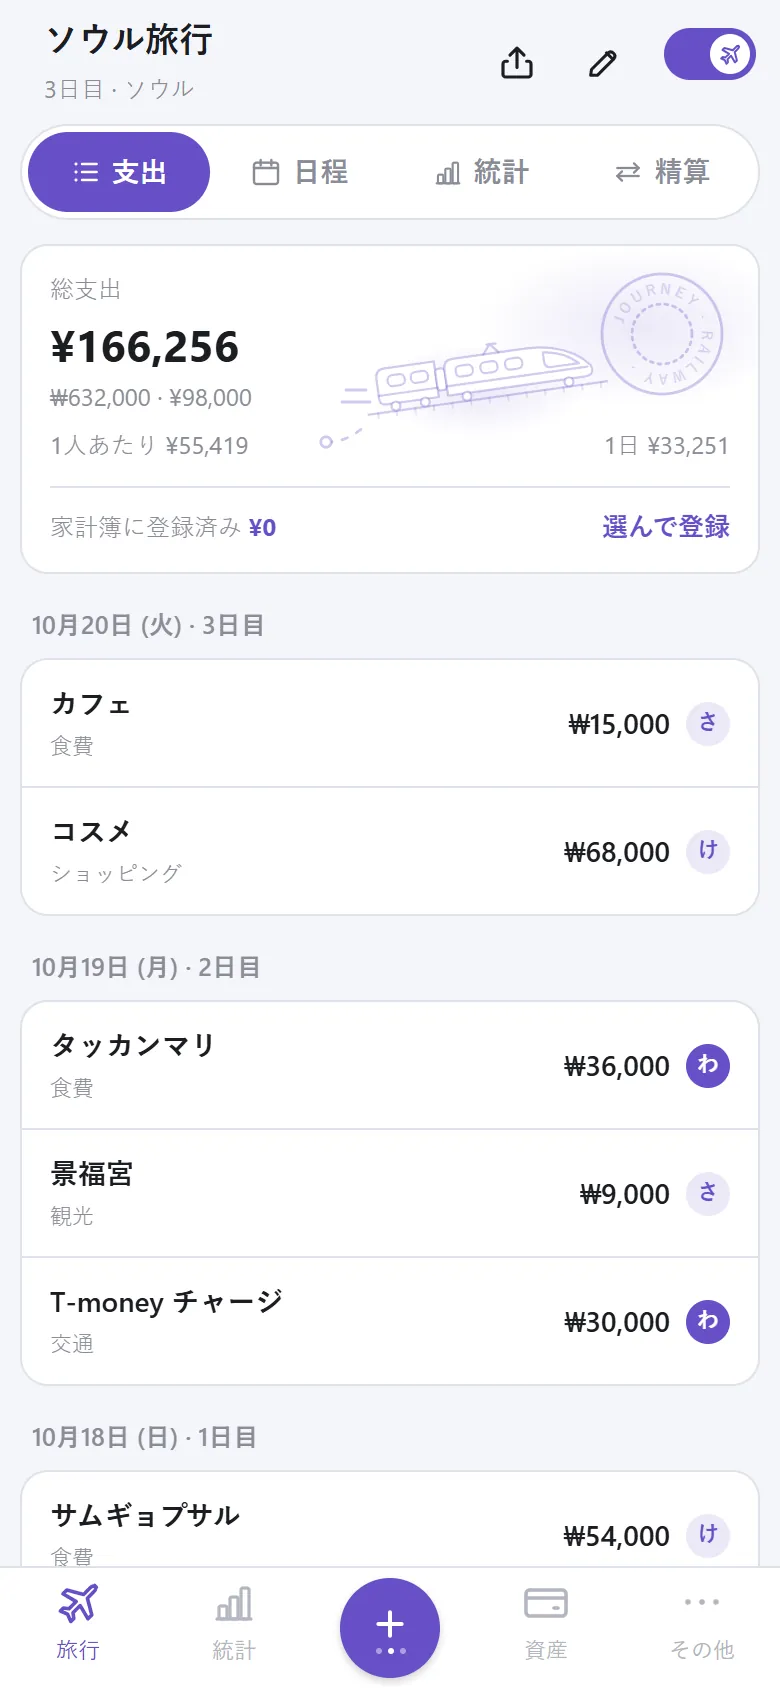
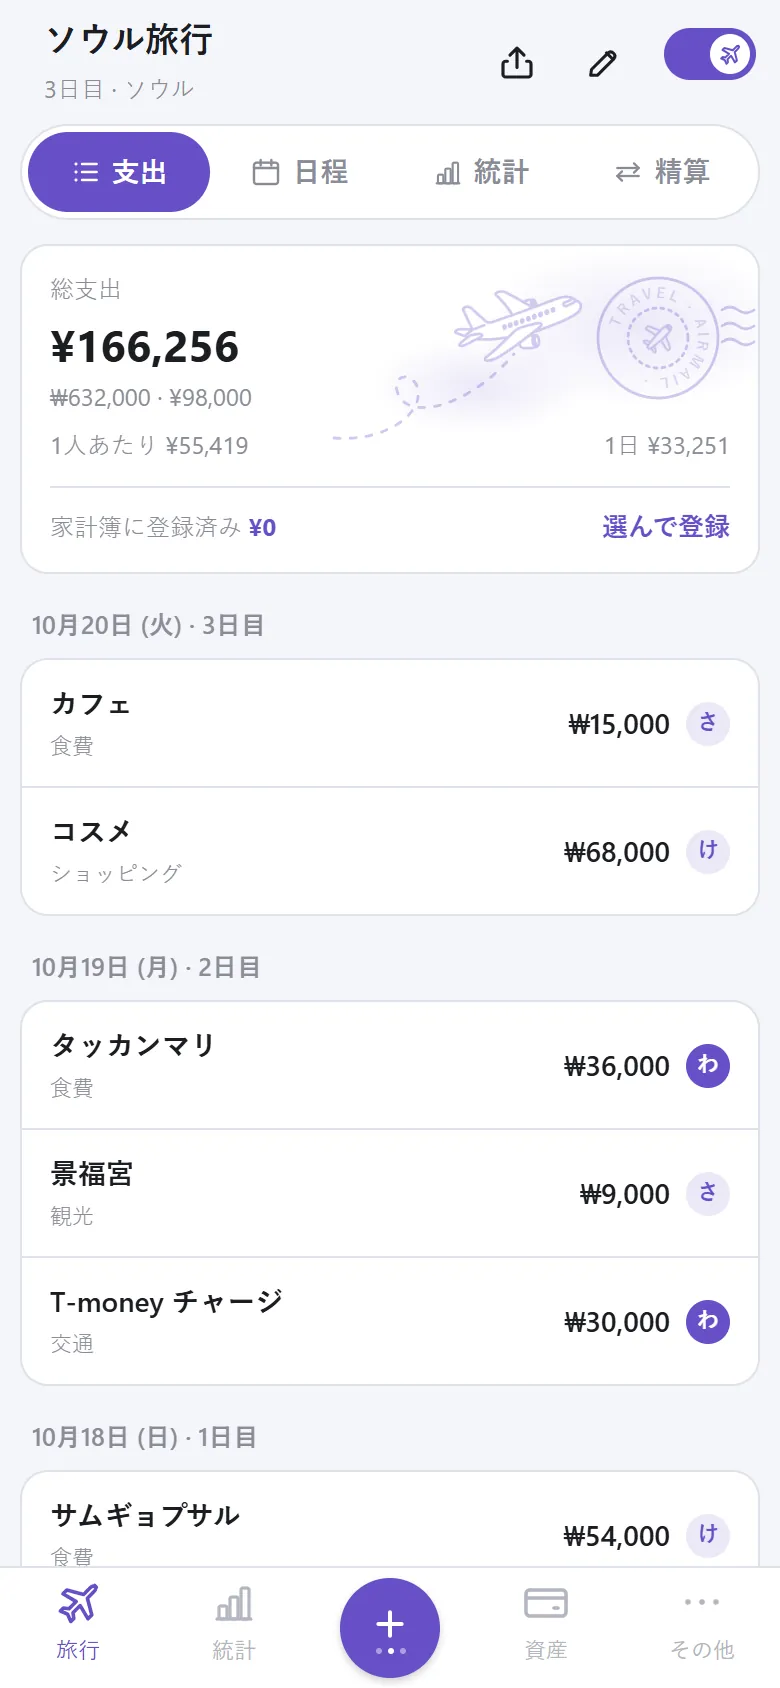
Show four trip screens and fix the demo's trip card art
- Trip section on the CashTory pages (KO/JA/EN) now shows four app
  screens with captions: expenses, schedule, stats and settle up
  (2x2 on phones, one row on wide screens)
- Re-captured trip screens: the top card now shows the plane art, the
  Japanese sample is an overseas trip, and the schedule shows upcoming
  plans from the top
- Web demo: add plain-named copies of the @3x trip-art images, which the
  page requests without the scale suffix (they were 404, so the plane
  and stamp art was missing)

Changed region(s): [[0.4308, 0.154, 0.9538, 0.2464]]

diff --git a/cashtory/ja/index.html b/cashtory/ja/index.html
@@ -85,6 +85,9 @@ section.block{padding:96px 0}
 .feature h3{margin:18px 0 6px;font-size:19px;letter-spacing:-.03em}.feature p{margin:0;color:var(--sub);font-size:14px}
 .inputMedia{display:flex;justify-content:center;gap:24px;margin-top:48px}
 .inputMedia .phone{width:min(280px,44vw)}
+.inputMedia.four{display:grid;grid-template-columns:repeat(4,minmax(0,250px));justify-content:center;gap:22px}
+.inputMedia.four .phone{width:auto;border-radius:38px;padding:8px}.inputMedia.four .phone img{border-radius:31px}
+.inputMedia.four figure{margin:0}.inputMedia.four figcaption{margin-top:14px;text-align:center;font-size:14px;font-weight:800;color:var(--sub)}
 .receipt{margin-top:56px;display:grid;grid-template-columns:.8fr 1.2fr;gap:32px;align-items:center;background:#fff;border:1px solid var(--line);border-radius:28px;padding:24px;box-shadow:var(--shadow)}
 .scrollShot{background:#15151a;border-radius:30px;padding:8px;width:min(320px,100%);height:560px;margin:0 auto;overflow:hidden}
 .scrollShot img{width:100%;border-radius:23px;animation:shotScroll 12s cubic-bezier(.65,0,.35,1) infinite alternate}
@@ -127,6 +130,7 @@ footer{padding:32px 0 42px;border-top:1px solid var(--line);color:#777A85;font-s
   .split.rev>.media{order:0}
   .features{grid-template-columns:1fr 1fr}
   .grid4{grid-template-columns:1fr 1fr}
+  .inputMedia.four{grid-template-columns:repeat(2,minmax(0,280px))}
   .stage{min-height:0;padding:12px 0}
 }
 @media(max-width:600px){
@@ -141,6 +145,9 @@ footer{padding:32px 0 42px;border-top:1px solid var(--line);color:#777A85;font-s
   .inputMedia{gap:12px}
   .inputMedia .phone{width:46vw;border-radius:28px;padding:6px}
   .inputMedia .phone img{border-radius:23px}
+  .inputMedia.four{gap:16px 12px}
+  .inputMedia.four .phone{width:auto}
+  .inputMedia.four figcaption{margin-top:10px;font-size:13px}
   section.block,.reviewSec{padding:72px 0}
   .tryBand{padding:30px 24px}
 }
@@ -250,10 +257,7 @@ footer{padding:32px 0 42px;border-top:1px solid var(--line);color:#777A85;font-s
           <h2>旅行のお金は、<br>旅行ノートに<wbr>別々に。</h2>
           <p class="sectionLead">旅行ごとに別々に記録し、必要な支出だけを選んで家計簿に移せます。現地のお金のまま入力すれば為替レートで換算して合計を表示し、同行者と使ったお金は誰が誰にいくら送ればよいかまで教えてくれます。</p>
         </div>
-        <div class="inputMedia">
-          <div class="phone"><img src="/cashtory/assets/screens/ja/trip.webp" alt="旅行の明細画面" width="780" height="1688" loading="lazy" decoding="async"></div>
-          <div class="phone"><img src="/cashtory/assets/screens/ja/trip2.webp" alt="旅行の精算画面" width="780" height="1688" loading="lazy" decoding="async"></div>
-        </div>
+        <div class="inputMedia four"><figure><div class="phone"><img src="/cashtory/assets/screens/ja/trip.webp" alt="旅行の支出画面" width="780" height="1688" loading="lazy" decoding="async"></div><figcaption>支出</figcaption></figure><figure><div class="phone"><img src="/cashtory/assets/screens/ja/trip-plans.webp" alt="旅行の日程画面" width="780" height="1688" loading="lazy" decoding="async"></div><figcaption>日程</figcaption></figure><figure><div class="phone"><img src="/cashtory/assets/screens/ja/trip-stats.webp" alt="旅行の統計画面" width="780" height="1688" loading="lazy" decoding="async"></div><figcaption>統計</figcaption></figure><figure><div class="phone"><img src="/cashtory/assets/screens/ja/trip2.webp" alt="旅行の精算画面" width="780" height="1688" loading="lazy" decoding="async"></div><figcaption>精算</figcaption></figure></div>
         <div class="features"><article class="feature"><div class="featureIcon" aria-hidden="true">$</div><h3>現地のお金のまま</h3><p>ドル・ウォンのまま入力すると、決めたレートで換算して合計・1人あたり・1日平均を表示します。</p></article><article class="feature"><div class="featureIcon" aria-hidden="true">⇄</div><h3>自動で精算</h3><p>払った人と割る人を選ぶだけ。精算表は画像で共有でき、旅行ファイルをやり取りして同行者と合算できます。</p></article><article class="feature"><div class="featureIcon" aria-hidden="true">☑</div><h3>日程 · 持ち物</h3><p>日ごとの予定と地図リンクを記録し、海外・国内の基本リストで持ち物をチェック。</p></article><article class="feature"><div class="featureIcon" aria-hidden="true">✈</div><h3>旅行モード</h3><p>出発前日から家計簿上のスイッチひとつで旅行画面が先に。行った国は世界地図に塗られます。</p></article></div>
       </div>
     </section>

diff --git a/cashtory/index.html b/cashtory/index.html
@@ -85,6 +85,9 @@ section.block{padding:96px 0}
 .feature h3{margin:18px 0 6px;font-size:19px;letter-spacing:-.03em}.feature p{margin:0;color:var(--sub);font-size:14px}
 .inputMedia{display:flex;justify-content:center;gap:24px;margin-top:48px}
 .inputMedia .phone{width:min(280px,44vw)}
+.inputMedia.four{display:grid;grid-template-columns:repeat(4,minmax(0,250px));justify-content:center;gap:22px}
+.inputMedia.four .phone{width:auto;border-radius:38px;padding:8px}.inputMedia.four .phone img{border-radius:31px}
+.inputMedia.four figure{margin:0}.inputMedia.four figcaption{margin-top:14px;text-align:center;font-size:14px;font-weight:800;color:var(--sub)}
 .receipt{margin-top:56px;display:grid;grid-template-columns:.8fr 1.2fr;gap:32px;align-items:center;background:#fff;border:1px solid var(--line);border-radius:28px;padding:24px;box-shadow:var(--shadow)}
 .scrollShot{background:#15151a;border-radius:30px;padding:8px;width:min(320px,100%);height:560px;margin:0 auto;overflow:hidden}
 .scrollShot img{width:100%;border-radius:23px;animation:shotScroll 12s cubic-bezier(.65,0,.35,1) infinite alternate}
@@ -127,6 +130,7 @@ footer{padding:32px 0 42px;border-top:1px solid var(--line);color:#777A85;font-s
   .split.rev>.media{order:0}
   .features{grid-template-columns:1fr 1fr}
   .grid4{grid-template-columns:1fr 1fr}
+  .inputMedia.four{grid-template-columns:repeat(2,minmax(0,280px))}
   .stage{min-height:0;padding:12px 0}
 }
 @media(max-width:600px){
@@ -141,6 +145,9 @@ footer{padding:32px 0 42px;border-top:1px solid var(--line);color:#777A85;font-s
   .inputMedia{gap:12px}
   .inputMedia .phone{width:46vw;border-radius:28px;padding:6px}
   .inputMedia .phone img{border-radius:23px}
+  .inputMedia.four{gap:16px 12px}
+  .inputMedia.four .phone{width:auto}
+  .inputMedia.four figcaption{margin-top:10px;font-size:13px}
   section.block,.reviewSec{padding:72px 0}
   .tryBand{padding:30px 24px}
 }
@@ -259,10 +266,7 @@ footer{padding:32px 0 42px;border-top:1px solid var(--line);color:#777A85;font-s
           <h2>여행 경비는<br>여행 공책에 따로.</h2>
           <p class="sectionLead">여행마다 따로 적고, 필요한 지출만 골라 내 가계부로 옮기세요. 현지 돈 그대로 적으면 환율로 바꿔 합계를 보여 주고, 일행과 쓴 돈은 누가 누구에게 얼마 보내면 되는지까지 알려줘요.</p>
         </div>
-        <div class="inputMedia">
-          <div class="phone"><img src="/cashtory/assets/screens/ko/trip.webp" alt="여행 내역 화면" width="780" height="1688" loading="lazy" decoding="async"></div>
-          <div class="phone"><img src="/cashtory/assets/screens/ko/trip2.webp" alt="여행 정산 화면" width="780" height="1688" loading="lazy" decoding="async"></div>
-        </div>
+        <div class="inputMedia four"><figure><div class="phone"><img src="/cashtory/assets/screens/ko/trip.webp" alt="여행 지출 내역 화면" width="780" height="1688" loading="lazy" decoding="async"></div><figcaption>내역</figcaption></figure><figure><div class="phone"><img src="/cashtory/assets/screens/ko/trip-plans.webp" alt="여행 일정 화면" width="780" height="1688" loading="lazy" decoding="async"></div><figcaption>일정</figcaption></figure><figure><div class="phone"><img src="/cashtory/assets/screens/ko/trip-stats.webp" alt="여행 통계 화면" width="780" height="1688" loading="lazy" decoding="async"></div><figcaption>통계</figcaption></figure><figure><div class="phone"><img src="/cashtory/assets/screens/ko/trip2.webp" alt="여행 정산 화면" width="780" height="1688" loading="lazy" decoding="async"></div><figcaption>정산</figcaption></figure></div>
         <div class="features"><article class="feature"><div class="featureIcon" aria-hidden="true">¥</div><h3>현지 돈 그대로</h3><p>엔·달러 그대로 적으면 정한 환율로 바꿔 총 지출·1인당·하루 평균을 보여줘요.</p></article><article class="feature"><div class="featureIcon" aria-hidden="true">⇄</div><h3>자동 정산</h3><p>낸 사람과 나눌 사람만 고르면 끝. 정산표는 이미지로 공유하고, 여행 파일을 주고받아 일행과 합칠 수 있어요.</p></article><article class="feature"><div class="featureIcon" aria-hidden="true">☑</div><h3>일정 · 준비물</h3><p>날마다 일정과 지도 링크를 적고, 해외·국내 기본 목록으로 준비물을 챙겨요.</p></article><article class="feature"><div class="featureIcon" aria-hidden="true">✈</div><h3>여행 모드</h3><p>출발 전날부터 가계부 위 스위치 하나로 여행 화면이 먼저. 다녀온 나라는 세계지도에 칠해져요.</p></article></div>
       </div>
     </section>

diff --git a/cashtory/en/index.html b/cashtory/en/index.html
@@ -85,6 +85,9 @@ section.block{padding:96px 0}
 .feature h3{margin:18px 0 6px;font-size:19px;letter-spacing:-.03em}.feature p{margin:0;color:var(--sub);font-size:14px}
 .inputMedia{display:flex;justify-content:center;gap:24px;margin-top:48px}
 .inputMedia .phone{width:min(280px,44vw)}
+.inputMedia.four{display:grid;grid-template-columns:repeat(4,minmax(0,250px));justify-content:center;gap:22px}
+.inputMedia.four .phone{width:auto;border-radius:38px;padding:8px}.inputMedia.four .phone img{border-radius:31px}
+.inputMedia.four figure{margin:0}.inputMedia.four figcaption{margin-top:14px;text-align:center;font-size:14px;font-weight:800;color:var(--sub)}
 .receipt{margin-top:56px;display:grid;grid-template-columns:.8fr 1.2fr;gap:32px;align-items:center;background:#fff;border:1px solid var(--line);border-radius:28px;padding:24px;box-shadow:var(--shadow)}
 .scrollShot{background:#15151a;border-radius:30px;padding:8px;width:min(320px,100%);height:560px;margin:0 auto;overflow:hidden}
 .scrollShot img{width:100%;border-radius:23px;animation:shotScroll 12s cubic-bezier(.65,0,.35,1) infinite alternate}
@@ -127,6 +130,7 @@ footer{padding:32px 0 42px;border-top:1px solid var(--line);color:#777A85;font-s
   .split.rev>.media{order:0}
   .features{grid-template-columns:1fr 1fr}
   .grid4{grid-template-columns:1fr 1fr}
+  .inputMedia.four{grid-template-columns:repeat(2,minmax(0,280px))}
   .stage{min-height:0;padding:12px 0}
 }
 @media(max-width:600px){
@@ -141,6 +145,9 @@ footer{padding:32px 0 42px;border-top:1px solid var(--line);color:#777A85;font-s
   .inputMedia{gap:12px}
   .inputMedia .phone{width:46vw;border-radius:28px;padding:6px}
   .inputMedia .phone img{border-radius:23px}
+  .inputMedia.four{gap:16px 12px}
+  .inputMedia.four .phone{width:auto}
+  .inputMedia.four figcaption{margin-top:10px;font-size:13px}
   section.block,.reviewSec{padding:72px 0}
   .tryBand{padding:30px 24px}
 }
@@ -250,10 +257,7 @@ footer{padding:32px 0 42px;border-top:1px solid var(--line);color:#777A85;font-s
           <h2>Trip spending<br>in its own notebook.</h2>
           <p class="sectionLead">Keep each trip separate and move only the expenses you choose into your ledger. Enter amounts in the local currency and see totals at your exchange rate; for group trips, it tells you who should pay whom, and how much.</p>
         </div>
-        <div class="inputMedia">
-          <div class="phone"><img src="/cashtory/assets/screens/en/trip.webp" alt="Trip expenses screen" width="780" height="1688" loading="lazy" decoding="async"></div>
-          <div class="phone"><img src="/cashtory/assets/screens/en/trip2.webp" alt="Trip settlement screen" width="780" height="1688" loading="lazy" decoding="async"></div>
-        </div>
+        <div class="inputMedia four"><figure><div class="phone"><img src="/cashtory/assets/screens/en/trip.webp" alt="Trip expenses screen" width="780" height="1688" loading="lazy" decoding="async"></div><figcaption>Expenses</figcaption></figure><figure><div class="phone"><img src="/cashtory/assets/screens/en/trip-plans.webp" alt="Trip schedule screen" width="780" height="1688" loading="lazy" decoding="async"></div><figcaption>Schedule</figcaption></figure><figure><div class="phone"><img src="/cashtory/assets/screens/en/trip-stats.webp" alt="Trip stats screen" width="780" height="1688" loading="lazy" decoding="async"></div><figcaption>Stats</figcaption></figure><figure><div class="phone"><img src="/cashtory/assets/screens/en/trip2.webp" alt="Trip settle-up screen" width="780" height="1688" loading="lazy" decoding="async"></div><figcaption>Settle up</figcaption></figure></div>
         <div class="features"><article class="feature"><div class="featureIcon" aria-hidden="true">€</div><h3>Local currency as is</h3><p>Enter euros or yen as they are; totals, per person and per day are converted at your rate.</p></article><article class="feature"><div class="featureIcon" aria-hidden="true">⇄</div><h3>Settle up automatically</h3><p>Pick who paid and who&#x27;s splitting. Share the settlement as an image, and swap trip files to combine everyone&#x27;s entries.</p></article><article class="feature"><div class="featureIcon" aria-hidden="true">☑</div><h3>Plans &amp; packing list</h3><p>Add each day&#x27;s plans with map links, and pack with the built-in abroad or domestic lists.</p></article><article class="feature"><div class="featureIcon" aria-hidden="true">✈</div><h3>Trip mode</h3><p>From the day before you leave, one switch above your ledger opens the trip first. Countries you&#x27;ve visited fill in on a world map.</p></article></div>
       </div>
     </section>

diff --git a/tools/build_cashtory_pages.py b/tools/build_cashtory_pages.py
@@ -83,7 +83,8 @@ COPY = {
                  ("⇄", "자동 정산", "낸 사람과 나눌 사람만 고르면 끝. 정산표는 이미지로 공유하고, 여행 파일을 주고받아 일행과 합칠 수 있어요."),
                  ("☑", "일정 · 준비물", "날마다 일정과 지도 링크를 적고, 해외·국내 기본 목록으로 준비물을 챙겨요."),
                  ("✈", "여행 모드", "출발 전날부터 가계부 위 스위치 하나로 여행 화면이 먼저. 다녀온 나라는 세계지도에 칠해져요.")],
-        "alt_trip": "여행 내역 화면", "alt_trip2": "여행 정산 화면",
+        "trip_shots": [("trip", "내역", "여행 지출 내역 화면"), ("trip-plans", "일정", "여행 일정 화면"),
+                       ("trip-stats", "통계", "여행 통계 화면"), ("trip2", "정산", "여행 정산 화면")],
         "notify_k": "NOTIFICATIONS",
         "notify_h": "챙길 날은<br>알림이 먼저 알려줘요.",
         "notify_lead": "디데이·곧 나갈 돈·잔액 부족 예상·할부 마지막 회차·월말 리뷰·차량 정비. 필요한 알림만 골라, 원하는 시간에 받으세요. 알림은 휴대폰 안에서만 만들어져요.",
@@ -187,7 +188,8 @@ COPY = {
                  ("⇄", "自動で精算", "払った人と割る人を選ぶだけ。精算表は画像で共有でき、旅行ファイルをやり取りして同行者と合算できます。"),
                  ("☑", "日程 · 持ち物", "日ごとの予定と地図リンクを記録し、海外・国内の基本リストで持ち物をチェック。"),
                  ("✈", "旅行モード", "出発前日から家計簿上のスイッチひとつで旅行画面が先に。行った国は世界地図に塗られます。")],
-        "alt_trip": "旅行の明細画面", "alt_trip2": "旅行の精算画面",
+        "trip_shots": [("trip", "支出", "旅行の支出画面"), ("trip-plans", "日程", "旅行の日程画面"),
+                       ("trip-stats", "統計", "旅行の統計画面"), ("trip2", "精算", "旅行の精算画面")],
         "notify_k": "NOTIFICATIONS",
         "notify_h": "大事な日は、<br>通知が先に<wbr>お知らせ。",
         "notify_lead": "Dデー・今後の支払い・残高不足の予測・分割払いの最終回・月末レビュー・車の整備。必要な通知だけを選び、好きな時間に受け取れます。通知はスマホの中だけで作られます。",
@@ -292,7 +294,8 @@ COPY = {
                  ("⇄", "Settle up automatically", "Pick who paid and who's splitting. Share the settlement as an image, and swap trip files to combine everyone's entries."),
                  ("☑", "Plans & packing list", "Add each day's plans with map links, and pack with the built-in abroad or domestic lists."),
                  ("✈", "Trip mode", "From the day before you leave, one switch above your ledger opens the trip first. Countries you've visited fill in on a world map.")],
-        "alt_trip": "Trip expenses screen", "alt_trip2": "Trip settlement screen",
+        "trip_shots": [("trip", "Expenses", "Trip expenses screen"), ("trip-plans", "Schedule", "Trip schedule screen"),
+                       ("trip-stats", "Stats", "Trip stats screen"), ("trip2", "Settle up", "Trip settle-up screen")],
         "notify_k": "NOTIFICATIONS",
         "notify_h": "Reminders for<br>the days that matter.",
         "notify_lead": "D-days, money coming up, low balance warnings, last installments, the monthly review and car service. Choose the ones you want and when they arrive. Notifications are created on your phone only.",
@@ -410,6 +413,9 @@ section.block{padding:96px 0}
 .feature h3{margin:18px 0 6px;font-size:19px;letter-spacing:-.03em}.feature p{margin:0;color:var(--sub);font-size:14px}
 .inputMedia{display:flex;justify-content:center;gap:24px;margin-top:48px}
 .inputMedia .phone{width:min(280px,44vw)}
+.inputMedia.four{display:grid;grid-template-columns:repeat(4,minmax(0,250px));justify-content:center;gap:22px}
+.inputMedia.four .phone{width:auto;border-radius:38px;padding:8px}.inputMedia.four .phone img{border-radius:31px}
+.inputMedia.four figure{margin:0}.inputMedia.four figcaption{margin-top:14px;text-align:center;font-size:14px;font-weight:800;color:var(--sub)}
 .receipt{margin-top:56px;display:grid;grid-template-columns:.8fr 1.2fr;gap:32px;align-items:center;background:#fff;border:1px solid var(--line);border-radius:28px;padding:24px;box-shadow:var(--shadow)}
 .scrollShot{background:#15151a;border-radius:30px;padding:8px;width:min(320px,100%);height:560px;margin:0 auto;overflow:hidden}
 .scrollShot img{width:100%;border-radius:23px;animation:shotScroll 12s cubic-bezier(.65,0,.35,1) infinite alternate}
@@ -452,6 +458,7 @@ footer{padding:32px 0 42px;border-top:1px solid var(--line);color:#777A85;font-s
   .split.rev>.media{order:0}
   .features{grid-template-columns:1fr 1fr}
   .grid4{grid-template-columns:1fr 1fr}
+  .inputMedia.four{grid-template-columns:repeat(2,minmax(0,280px))}
   .stage{min-height:0;padding:12px 0}
 }
 @media(max-width:600px){
@@ -466,6 +473,9 @@ footer{padding:32px 0 42px;border-top:1px solid var(--line);color:#777A85;font-s
   .inputMedia{gap:12px}
   .inputMedia .phone{width:46vw;border-radius:28px;padding:6px}
   .inputMedia .phone img{border-radius:23px}
+  .inputMedia.four{gap:16px 12px}
+  .inputMedia.four .phone{width:auto}
+  .inputMedia.four figcaption{margin-top:10px;font-size:13px}
   section.block,.reviewSec{padding:72px 0}
   .tryBand{padding:30px 24px}
 }
@@ -558,6 +568,10 @@ def page(lang: str) -> str:
     trip = "".join(
         f'<article class="feature"><div class="featureIcon" aria-hidden="true">{i}</div><h3>{e(t)}</h3><p>{e(p)}</p></article>'
         for i, t, p in c["trip"]
+    )
+    trip_shots = "".join(
+        f'<figure><div class="phone">{img(n, a)}</div><figcaption>{e(cap)}</figcaption></figure>'
+        for n, cap, a in c["trip_shots"]
     )
     notify = "".join(
         f'<article class="feature"><div class="featureIcon" aria-hidden="true">{i}</div><h3>{e(t)}</h3><p>{e(p)}</p></article>'
@@ -713,10 +727,7 @@ def page(lang: str) -> str:
           <h2>{c['trip_h']}</h2>
           <p class="sectionLead">{e(c['trip_lead'])}</p>
         </div>
-        <div class="inputMedia">
-          <div class="phone">{img('trip', c['alt_trip'])}</div>
-          <div class="phone">{img('trip2', c['alt_trip2'])}</div>
-        </div>
+        <div class="inputMedia four">{trip_shots}</div>
         <div class="features">{trip}</div>
       </div>
     </section>
